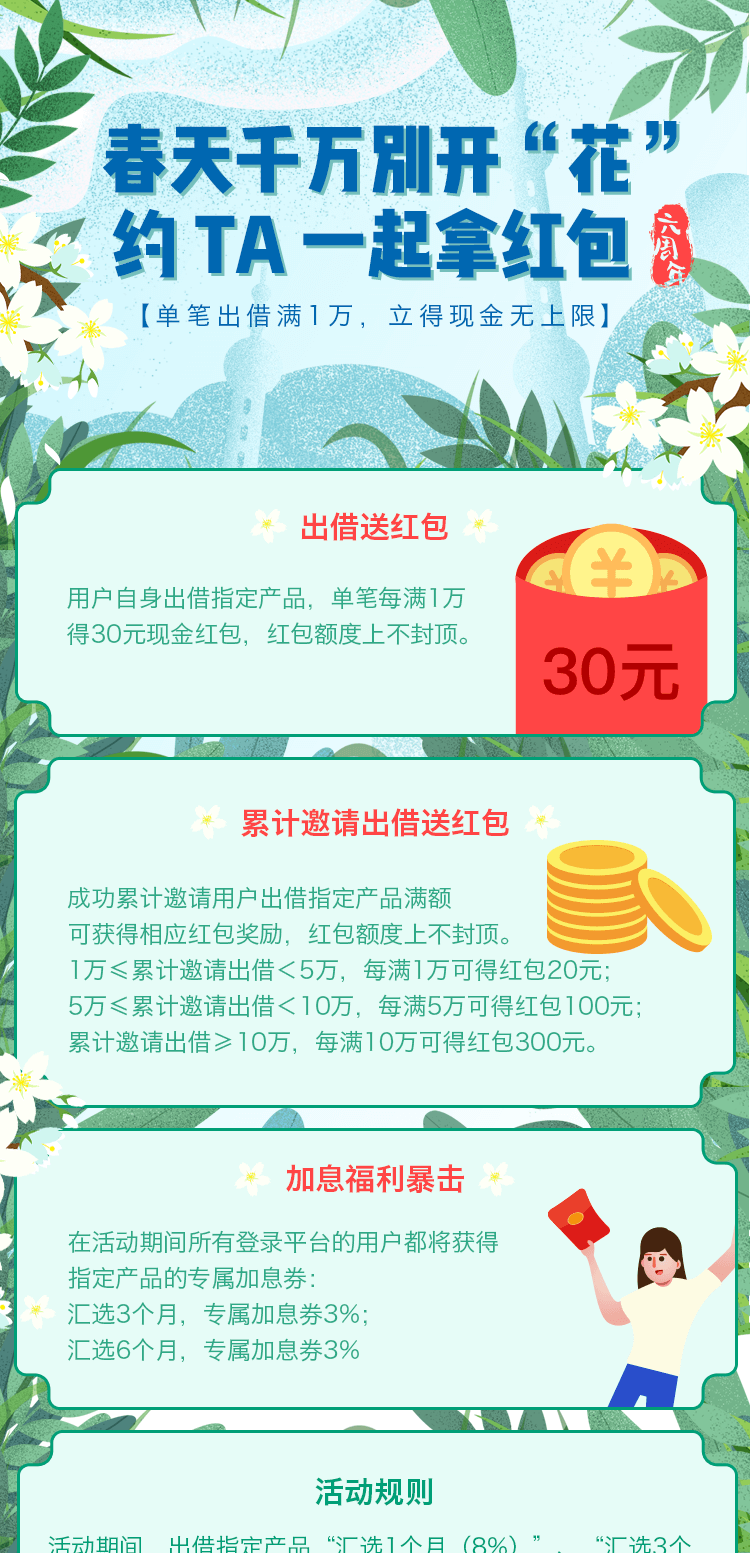
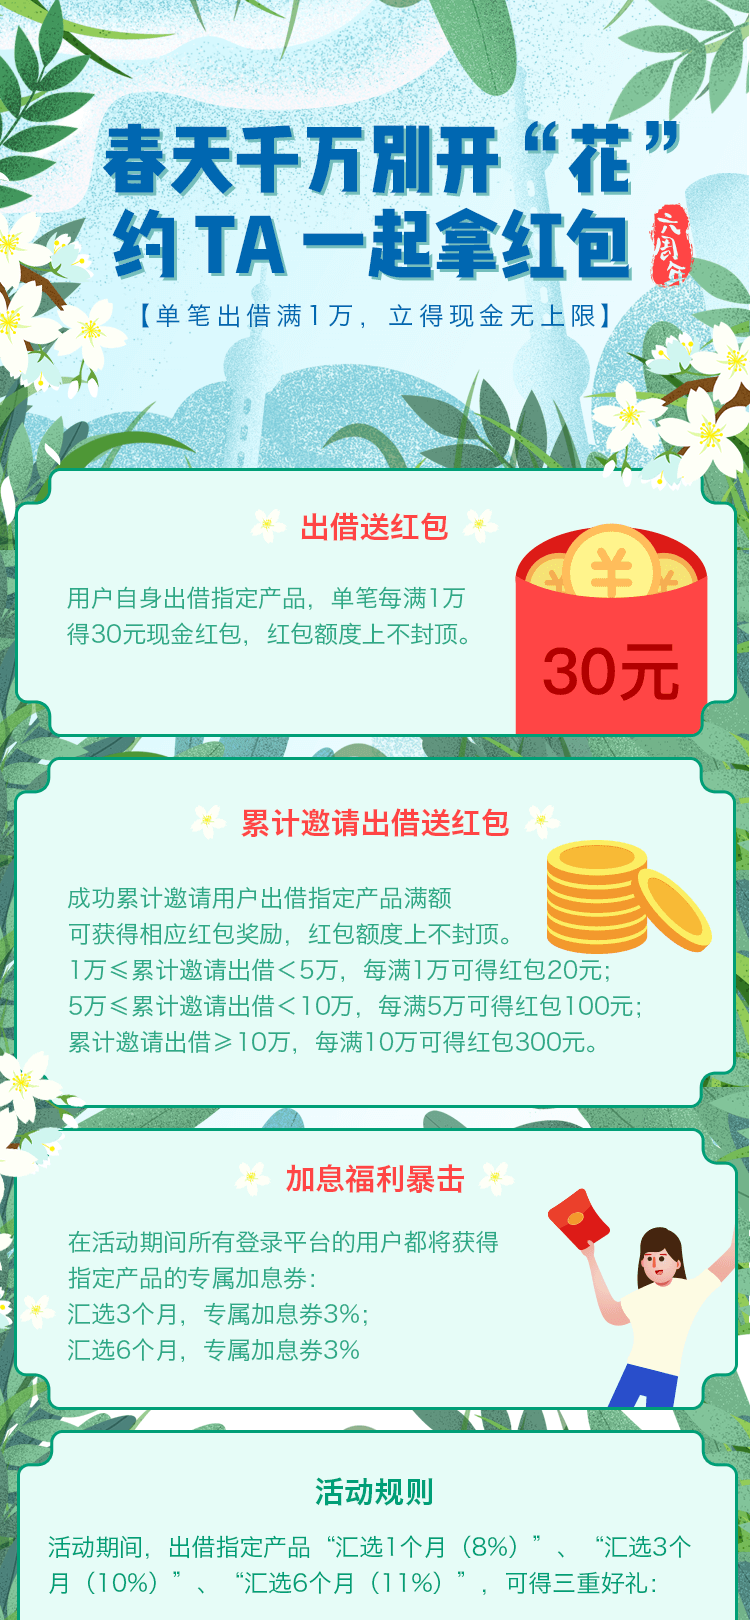
3000活动换图

diff --git a/src/views/djs/activities/3000/index.vue b/src/views/djs/activities/3000/index.vue
@@ -121,7 +121,7 @@ export default {
     background-size: cover;
     &:first-child {
       position: relative;
-      height: 7.765rem;
+      height: 8.1rem;
       background-image: url('./01.png');
       p {
         width: 100%;
@@ -133,7 +133,7 @@ export default {
       }
     }
     &:last-child {
-      height: 7.76rem;
+      height: 7.785rem;
       background-image: url('./02.png');
     }
   }
